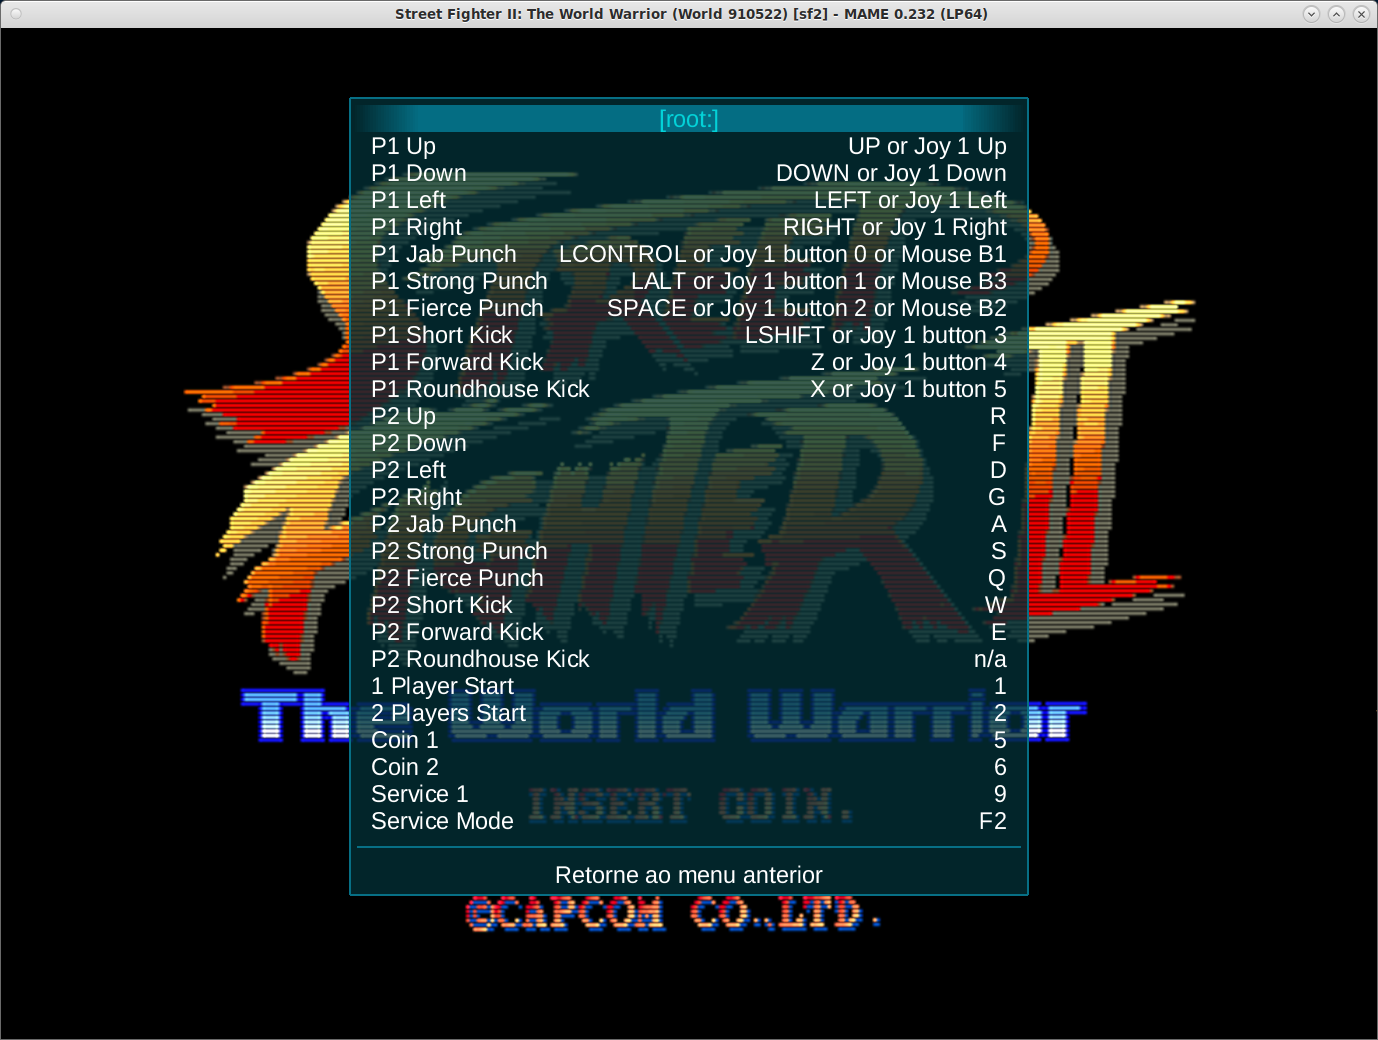
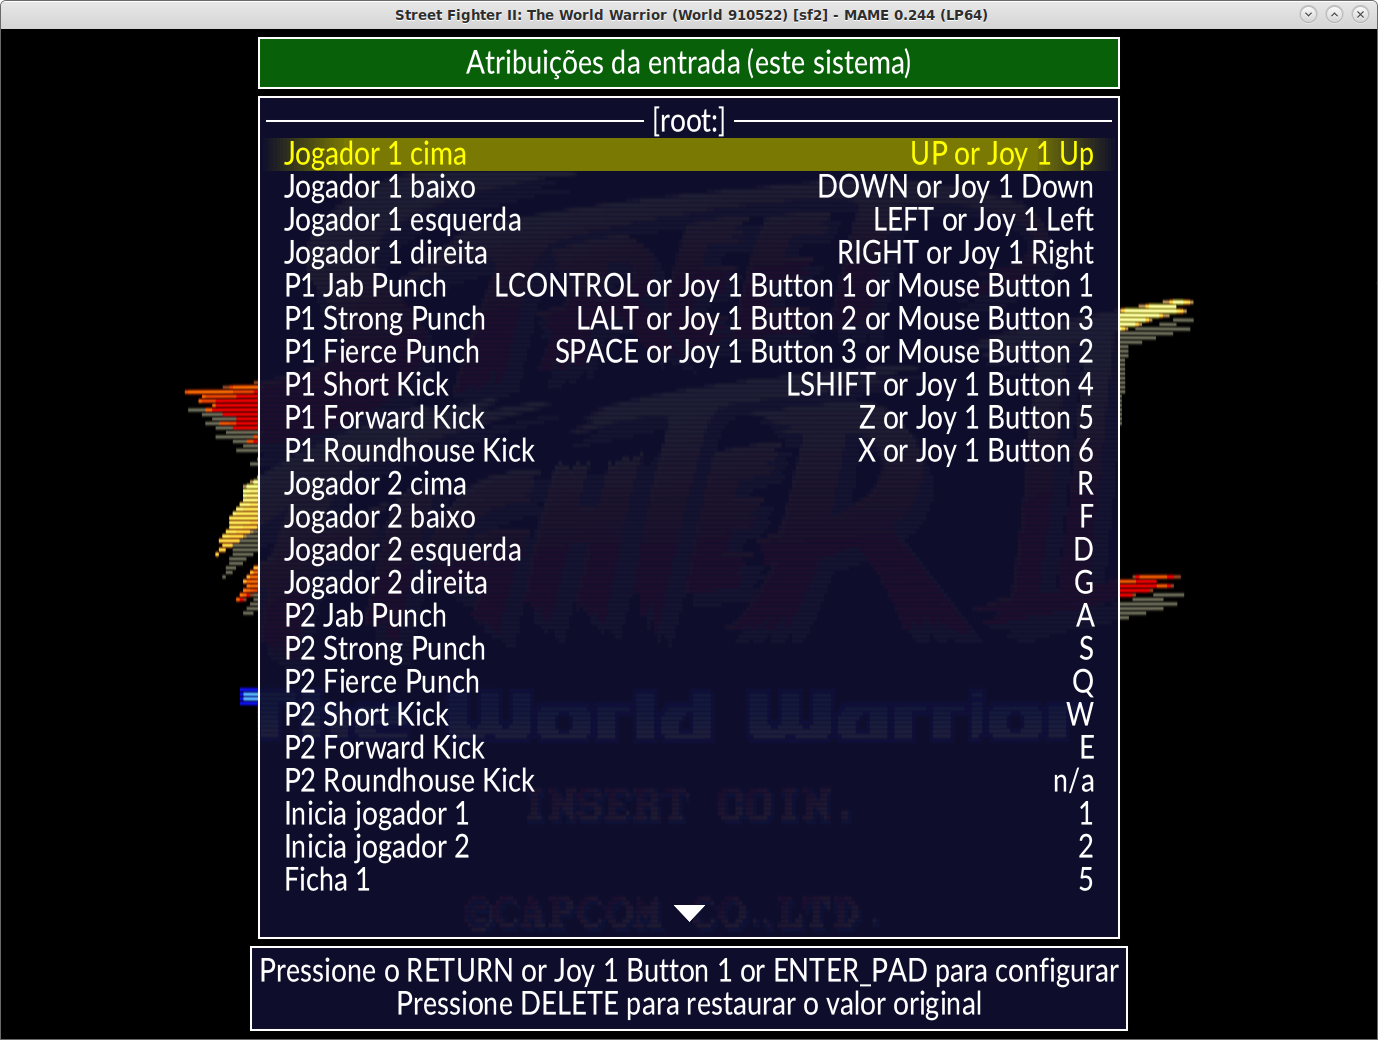
Atualiza o capítulo de configuração inicial do MAME

diff --git a/source/initialsetup/configuringmame.rst b/source/initialsetup/configuringmame.rst
@@ -159,11 +159,11 @@ No Linux ou macOS::
 	rompath                   /media/genesis/roms
 
 Isso pode ser feito com qualquer outro sistema, basta identificar o
-driver, criar um arquivo ``*.ini`` com o nome do driver dentro da pasta
-``ini\sources``. Lembrando que caso o sistema que será executado utilize
-algum tipo de BIOS como o Neo Geo por exemplo, é preciso apontar o
-caminho completo onde se encontra a BIOS do sistema e o caminho completo
-das ROMS do sistema.
+driver, criar um arquivo ``*.ini`` com o nome do driver (sem o ``.cpp``)
+dentro da pasta ``ini\sources``. Lembrando que caso o sistema que será
+executado utilize algum tipo de BIOS como o Neo Geo por exemplo, é
+preciso apontar o caminho completo onde se encontra a BIOS do sistema e
+o caminho completo das ROMS do sistema.
 
 Se for o caso do Neo Geo, crie o arquivo ``ini\sources\neogeo.ini``,
 dentro do arquivo ``neogeo.ini`` adicione::
@@ -189,22 +189,24 @@ Configurando os gráficos
 A maneira mais simples de fazer a configuração gráfica do MAME é
 clicando duas vezes em seu executável ou o invocando através do terminal
 ou do prompt de comando sem qualquer opção, quando a interface aparecer,
-com o mouse dê um clique duplo em **Opções de configuração** e depois em
-**Opções do vídeo** e escolha uma das opções disponíveis, para mais
-detalhes consulte :ref:`-video <mame-commandline-video>`.
+com o mouse dê um clique duplo em :guilabel:`Definições gerais` e depois
+em :guilabel:`Opções do vídeo` e escolha uma das opções disponíveis em
+:guilabel:`Modo do vídeo`, para mais detalhes consulte
+:ref:`-video <mame-commandline-video>`.
 
-Se for possível prefira a opção **bgfx**, caso contrário **opengl** e em
-último caso **d3d**. O MAME ainda usa o Direct3D versão 9 porém do
-Windows 7 em diante o Direct 3D 9 não é mais compatível com as versões
-mais novas do Windows.
+Se for possível prefira a opção :guilabel:`bgfx`, caso contrário
+:guilabel:`opengl` e em último caso **d3d**. O MAME ainda usa o Direct3D
+versão 9 porém do Windows 7 em diante o Direct 3D 9 não é mais
+compatível com as versões mais novas do Windows.
 
-Para tirar proveito da aceleração da sua placa de vídeo, prefira usar a
-versão do Direct3D do bgfx, neste caso, abra o seu ``mame.ini``,
-localize a opção ``vídeo`` e troque ``auto`` por ``bgfx``, exemplo::
+Note que apesar de ser possível selecionar o modo do vídeo, para tirar
+proveito da aceleração da sua placa de vídeo, prefira usar a versão do
+Direct3D do bgfx, neste caso, abra o seu ``mame.ini``, localize a opção
+``vídeo`` e troque ``auto`` por ``bgfx``, exemplo::
 
 	video                     bgfx
 
-Agora procure a opção ``bgfx_backend`` e troque ``auto`` por ``d3d11``
+Agora, procure a opção ``bgfx_backend`` e troque ``auto`` por ``d3d11``
 ou ``d3d12`` caso a sua placa de vídeo seja compatível::
 
 	bgfx_backend              d3d12
@@ -215,20 +217,24 @@ própria interface do MAME, na linha de comando ou do prompt execute o
 
 As configurações que já vem definidas são suficientes para a grande
 maioria dos usuários, caso não queira que o MAME inicie ocupando a tela
-inteira por exemplo, altere a opção **Modo janela** para **Ligado**,
-depois faça um duplo clique em **Retorne ao menu anterior** e novamente
-em **Salve a configuração** para armazenar as alterações no
+inteira por exemplo, altere a opção :guilabel:`Modo janela` para
+:guilabel:`Ligado`, depois faça um duplo clique em
+:guilabel:`Retorne ao menu anterior` e novamente em
+:guilabel:`Salve a configuração` para armazenar as alterações no
 **mame.ini**.
 
 Tenha ciência que nada que seja feito aqui vai "quebrar" o MAME,
 contudo, pode ser que por alguma questão de incompatibilidade, o MAME
 não abra mais a interface, rode sem som, com tela preta ou algum outro
 tipo de problema. Neste caso, faça o backup dos seus arquivos
-``mame.ini``, ``ui.ini`` e ``plugins.ini``, crie uma nova configuração e
-tente novos ajustes, evite aqueles que causaram problemas.
+``mame.ini``, ``ui.ini`` e ``plugins.ini``, crie uma nova configuração
+com o comando ``mame -cc`` e tente novos ajustes, evite aqueles que
+causaram problemas. Para mais informações consulte
+:ref:`-createconfig <mame-commandline-createconfig>`.
 
 Para mais detalhes sobre todas as opções da parte da configuração do
-vídeo, consulte :ref:`mamemenu-config-video` para saber mais.
+vídeo, consulte :ref:`mamemenu-config-video`, :ref:`advanced-bgfx`
+para saber mais.
 
 .. _configuringmame-audio:
 
@@ -238,8 +244,8 @@ Configurando o áudio
 Assim como na configuração de vídeo, num primeiro momento, o MAME
 detecta e configura o áudio de forma automática para que funcione com o
 hardware existente. Porém é possível obter uma menor latência (atraso)
-no áudio e assim melhorar o seu desempenho, máquinas rítmicas como a
-**Dance Dance Revolution** e outras do tipo podem se beneficiar bastante
+no áudio e assim melhorar o seu desempenho, os sistemas como a **Dance
+Dance Revolution** e outras do tipo, podem se beneficiar bastante
 de uma latência menor.
 
 Para identificar a sua placa de som no MAME execute o comando
@@ -262,7 +268,7 @@ extras::
 Remova a opção ``pa_device`` caso queira deixar que a seleção seja
 automática. Salve o arquivo e rode novamente no terminal o comando
 ``mame ddrmax2 -v``, dentre as várias informações você deverá ver algo
-como mostra o exemplo abaixo para a minha máquina::
+como mostra o exemplo abaixo para o meu computador::
 
 	PortAudio: API ALSA has 13 devices
 	PortAudio: ALSA: "Xonar STX: Multichannel (hw:0,0)" (default)
@@ -284,13 +290,12 @@ como mostra o exemplo abaixo para a minha máquina::
 	PortAudio: Allowed additional buffering latency is 30.00 ms/1440 frames
 
 Experimente jogar uma partida e repare que houve uma melhora
-considerável no sincronismo do som com a ação na tela.
-
-Para obter o benefício de uma latência menor, o uso da placa de som se
-torna exclusiva para o MAME, ou seja, caso você goste de usar o MAME
-enquanto escuta música de fundo ou ouvir o som do Youtube, Spotify,
-Tidal ou qualquer outro site ou programa que use a placa de som, o áudio
-pode **não funcionar**.
+considerável no sincronismo do som com a ação na tela. Para obter o
+benefício de uma latência menor, o uso da placa de som se torna
+exclusiva para o MAME, ou seja, caso você goste de usar o MAME enquanto
+escuta música de fundo ou ouvir o som do Youtube, Spotify, Tidal ou
+qualquer outro site ou programa que use a placa de som, o áudio pode
+**não funcionar**.
 
 Neste caso altere a configuração do arquivo ``arcade.ini`` para::
 
@@ -298,11 +303,11 @@ Neste caso altere a configuração do arquivo ``arcade.ini`` para::
 	sound                   sdl
 	samplerate              44100
 
-Para manter o benefício do áudio com baixa latência para todas as
-máquinas do driver **ksys573** como a **Dance Dance Revolution**, entre
-no diretório  **ini** e crie o diretório **source**, dentro dele crie o
-arquivo ``ksys573.ini`` com as configurações de áudio usadas
-anteriormente::
+Para manter o benefício do áudio com baixa latência para todos os
+sistemas referentes ao driver **ksys573** como a **Dance Dance
+Revolution**, entre no diretório  **ini** e crie o diretório **source**,
+dentro dele crie o arquivo ``ksys573.ini`` com as configurações de áudio
+usadas anteriormente::
 
 	# Audio
 	sound                   portaudio
@@ -310,12 +315,12 @@ anteriormente::
 	pa_api                  ALSA
 	pa_device               "Xonar STX: Multichannel (hw:0,0)"
 
-Todas as máquinas que estão dentro da categoria "Arcade" agora passam a
+Todos os sistemas que estão dentro da categoria "Arcade" agora passam a
 usar a interface comum de áudio e que funciona junto com quaisquer
-outros programas ou serviços de áudio e só as máquinas do driver
+outros programas ou serviços de áudio e apenas os sistemas do driver
 **ksys573** passam a usar a configuração com baixa latência.
 O mesmo pode ser feito com outros drivers como a **djmain** que é
-responsável pelas máquinas da série **Beatmania** e **Pop'n Music**,
+responsável pelos sistemas da série **Beatmania** e **Pop'n Music**,
 lembrando que você pode identificar o nome do driver com o comando
 ``mame nome_da_rom -ls``, para mais informações consulte o comando
 :ref:`-listsource <mame-commandline-listsource>`.
@@ -330,32 +335,40 @@ Configurando os controles
 -------------------------
 
 O MAME aceita dois tipos de configuração para os controles, a primeira é
-a configuração feita através da interface, depois de iniciar um jogo
+a configuração feita através da interface, depois de iniciar um sistema
 qualquer como o "*Street Fighter II*" da Capcom ``mame sf2``, pressione
-**TAB -> Entrada (esta máquina)**:
+:kbd:`Tab` e selecione :guilabel:`Configurações da entrada` ->
+:guilabel:`Atribuições da entrada (este sistema)`:
 
 .. figure:: images/default-ctrl.png
-	:width: 80%
 	:align: center
 	:figclass: align-center
 	:alt: Controles predefinidos
 
-Aqui temos a configuração que já vem predefinida para está máquina, o
-**P1** são as definições para o jogador 1 e assim por diante. Selecione
-a configuração para **Up (cima)** e pressione **Del** no teclado para
-excluir a configuração, agora pressione **cima** no seu controle ou no
-manche do seu arcade e faça o mesmo para as outras posições. A sequência
-dos botões para o soco estão como **Jab Punch (soco fraco)**,
-**Strong Punch (soco médio)** e **Fierce Punch (soco forte)**. Para o
-chute nós temos **Short Kick (chute fraco)**,
-**Forward Kick (chute médio)** e **Roundhouse Kick (chute forte)**.
+Aqui temos a configuração que já vem predefinida para este sistema, o
+**P1** são as definições para o **jogador 1** e assim por diante.
+Selecione a configuração para **Up (cima)** e pressione :kbd:`Enter` no
+teclado e pressione **cima** no seu controle, manche ou joystick e faça
+o mesmo para as outras definições.
+
+A sequência dos botões de soco para este sistema estão organizados como:
+
+* :guilabel:`Jab Punch` (soco fraco)
+* :guilabel:`Strong Punch` (soco médio)
+* :guilabel:`Fierce Punch` (soco forte)
+
+Para o chute nós temos:
+
+* :guilabel:`Short Kick` (chute fraco)
+* :guilabel:`Forward Kick` (chute médio)
+* :guilabel:`Roundhouse Kick` (chute forte)
 
 No final, o nome para cada tipo de controle pode ficar um pouco
 diferente, isso pode variar muito dependendo do modelo e do adaptador
-usado, neste exemplo usando um adaptador USB para Playstation 2. A
-configuração usada neste controle é **quadrado (soco fraco)**,
-**L1 (soco médio)**, **triângulo (soco forte)**, **R1 (chute fraco)**,
-**xis (chute médio)**, **círculo (chute forte)**.
+usado. No exemplo da foto abaixo e usando um adaptador USB para
+Playstation 2 nós fizemos a seguinte configuração, **quadrado (soco
+fraco)**, **L1 (soco médio)**, **triângulo (soco forte)**, **R1 (chute
+fraco)**, **xis (chute médio)**, **círculo (chute forte)**.
 
 .. raw:: latex
 
@@ -364,7 +377,6 @@ configuração usada neste controle é **quadrado (soco fraco)**,
 Isso nos deixa com a seguinte configuração:
 
 .. figure:: images/new-ctrl.png
-	:width: 80%
 	:align: center
 	:figclass: align-center
 	:alt: Nova configuração
@@ -440,12 +452,12 @@ cria uma configuração com o nome desta ROM ``sf2.cfg`` na pasta ``cfg``:
 O MAME sempre vai procurar pela configuração ``sf2.cfg`` sempre que a
 ROM ``sf2`` for carregada.
 
-Porém, existem diferentes versões desta máquina em diferentes sistemas
-como CPS-1, CPS-2, CPS-3 e várias outras que usam um esquema semelhante
-de botões. Para evitar o trabalho de se criar uma configuração destas
-para cada máquina individualmente, é possível aplicar esta exata
-configuração **por sistema**, ou seja, todas as máquinas do sistema
-CPS-1 por exemplo, podem usar uma só configuração.
+Porém, existem diferentes versões deste sistema em diferentes drivers
+como o CPS-1, CPS-2, CPS-3 e várias outras que usam um esquema
+semelhante de botões. Para evitar o trabalho de se criar uma
+configuração destas para cada sistema individualmente, é possível
+aplicar esta exata configuração **por sistema**, ou seja, todas os
+sistemas do driver CPS-1 por exemplo, podem usar uma só configuração.
 
 Para isso, copie o arquivo ``sf2.cfg`` da pasta ``cfg`` para a pasta
 ``ctrlr``, esta pasta fica junto com o executável do MAME, caso o seu
@@ -465,40 +477,43 @@ troque o **sf2** da linha ``<system name="sf2">`` para **default** ou
 
 	\clearpage
 
-Para aplicar a configuração para **TODAS** as máquinas do sistema CPS-1,
-crie uma pasta chamada ``sources`` dentro da pasta ``ini``, dentro da
-pasta ``sources`` crie um arquivo chamado ``cps1.ini``, abra-o no
-editor de texto e adicione a opção::
+Para aplicar a configuração para **TODOS** os sistemas do driver CPS-1,
+crie uma pasta chamada chamada ``sources`` dentro da pasta ``ini``,
+dentro da pasta ``sources`` crie um arquivo chamado ``cps1.ini``, abra-o
+no editor de texto e adicione a opção::
 
 	ctrlr                 street
 
 Note que ``street`` se refere ao ``street.cfg`` que criamos
 **sem o .cfg**. Apague o seu arquivo ``sf2.cfg`` da pasta ``cfg`` e
-inicie novamente a máquina, novamente pressione **TAB -> Entrada
-(esta máquina)**, repare que o MAME carrega as configurações do seu
-controle. Encerre a emulação novamente, tente outra máquina como a
-``sf2ce``, repare que esta máquina também está usando as configurações
-do seu controle, o mesmo vai acontecer para todas as máquinas deste
-driver.
+inicie novamente o sistema, pressione :kbd:`Tab` e selecione
+:guilabel:`Configurações da entrada` ->
+:guilabel:`Atribuições da entrada (este sistema)`, repare que o MAME
+carregou as configurações do seu controle. Encerre a emulação novamente,
+tente outro sistema como a ``sf2ce``, repare que este sistema também
+vai estar usando as configurações que você definiu para o seu controle,
+o mesmo vai acontecer para todos os outros sistemas deste driver.
 
-Neste driver também há máquinas de tiro, pancadaria, dentre outros.
-Nestes casos é preciso criar uma configuração por máquina. Por exemplo,
-a máquina "*Carrier Air Wing (cawing)*" possuí 3 botões, é possível usar
-o mesmo tipo de configuração já ensinado anteriormente com
-**TAB -> Entrada (esta máquina)** em cada máquina ou pegar a
-configuração que for criada, neste caso seria ``cfg\cawing.cfg``,
-alterar o **system name** para **default** como também já foi explicado
-anteriormente, porém agora, salve este arquivo como ``3-botões.cfg``
-dentro da pasta ``ctrlr``.
+Neste driver também há sistemas de tiro, pancadaria, dentre outros.
+Nestes casos é preciso criar uma configuração por sistema. Por exemplo,
+o "*Carrier Air Wing (cawing)*" possuí 3 botões, é possível usar
+o mesmo tipo de configuração já ensinado anteriormente com :kbd:`Tab` ->
+:guilabel:`Configurações da entrada` ->
+:guilabel:`Atribuições da entrada (este sistema)` em cada sistema ou
+pegar a configuração que for criada, neste caso seria
+``cfg\cawing.cfg``, alterar o **system name** para **default** como
+também já foi explicado anteriormente, porém agora, salve este arquivo
+como ``3-botoes.cfg`` dentro da pasta ``ctrlr``.
 
 Vá até a pasta ``ini`` e crie um ini com o nome da ROM ou
 ``cawing.ini``, abra o arquivo num editor, adicione a opção e salve::
 
 	ctrlr                 3-botões
 
-Assim as outras máquinas usam a configuração ``street`` enquanto a
-``cawing`` usa a configuração com 3 botões. O mesmo princípio pode ser
-utilizado com máquinas com 2 botões e assim por diante.
+Assim os outros sistemas usam a configuração ``street`` para jogos com
+6 botões enquanto a ``cawing`` usa a configuração com 3 botões. O mesmo
+princípio pode ser utilizado com sistemas que usam 2 botões e assim por
+diante.
 
-Outras configurações também podem ser feitas, neste caso, consulte todo
-o capítulo :ref:`advanced-tricks`.
+Outras configurações também podem ser feitas, neste caso, consulte o
+capítulo :ref:`advanced-tricks`.

diff --git a/source/advanced/ctrlr_config.rst b/source/advanced/ctrlr_config.rst
@@ -4,8 +4,8 @@
 
 .. _ctrlrcfg:
 
-Arquivos de configuração para controles
-=======================================
+Arquivos de configuração para os controles
+==========================================
 
 .. contents:: :local:
 
@@ -55,9 +55,10 @@ Estrutura básica
 
 A sua estrutura segue um formato similar ao formato usado pela
 configuração do sistema que o MAME usa para salvar coisas como as
-configurações da entrada e dados da contabilidade da máquina.
-Neste exemplo temos a estrutura geral de um arquivo de configuração de
-um controle:
+configurações da entrada e os dados da contabilidade da máquina (criado
+na pasta que for definido usando a opção
+:ref:`cfg_directory <mame-commandline-cfgdirectory>`). Neste exemplo
+temos a estrutura geral de um arquivo de configuração de um controle:
 
 .. code-block:: XML
 
@@ -149,8 +150,8 @@ O atributo ``origcode`` define o *token* para a entrada do host que será
 substituído, o atributo ``newcode`` define o *token* para a entrada do
 host que será substituído. Neste caso, são as atribuições que usa o
 cursor para cima, para baixo e as setas para a esquerda e para a
-direita, elas serão substituídas pelas teclas numéricas **8**, **2**,
-**4** e **6** do teclado numérico.
+direita, elas serão substituídas pelas teclas numéricas :kbd:`8`,
+:kbd:`2`, :kbd:`4` e :kbd:`6` do teclado numérico.
 
 Observe que as substituições indicadas usando os elementos ``remap``
 se aplicam apenas às entradas que usam a atribuição padrão do MAME para
